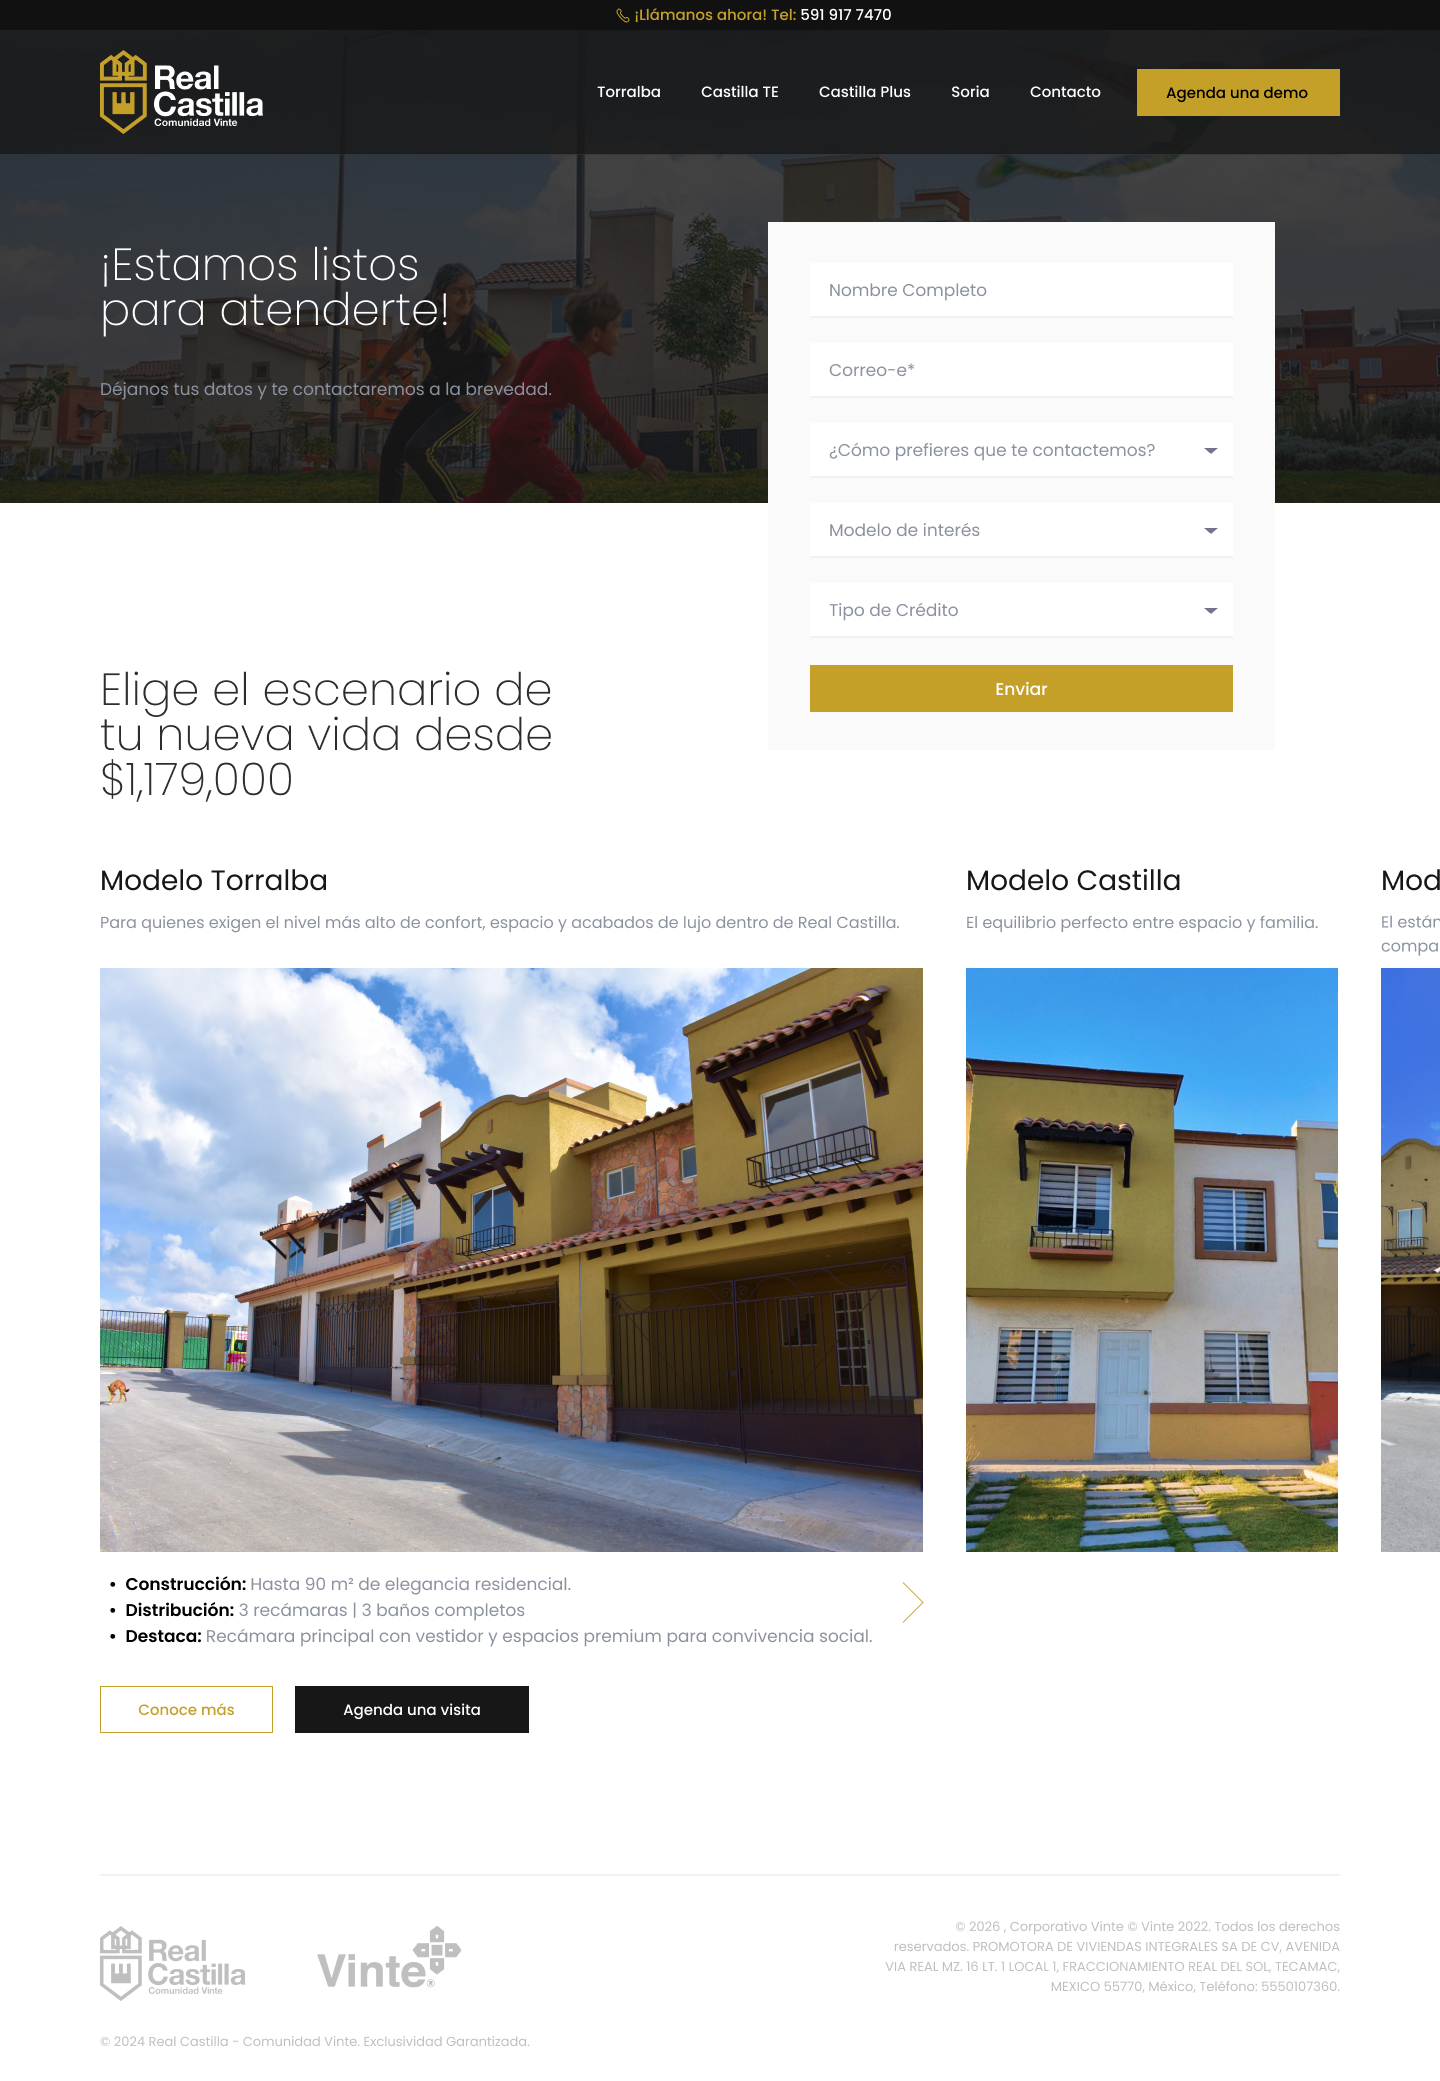
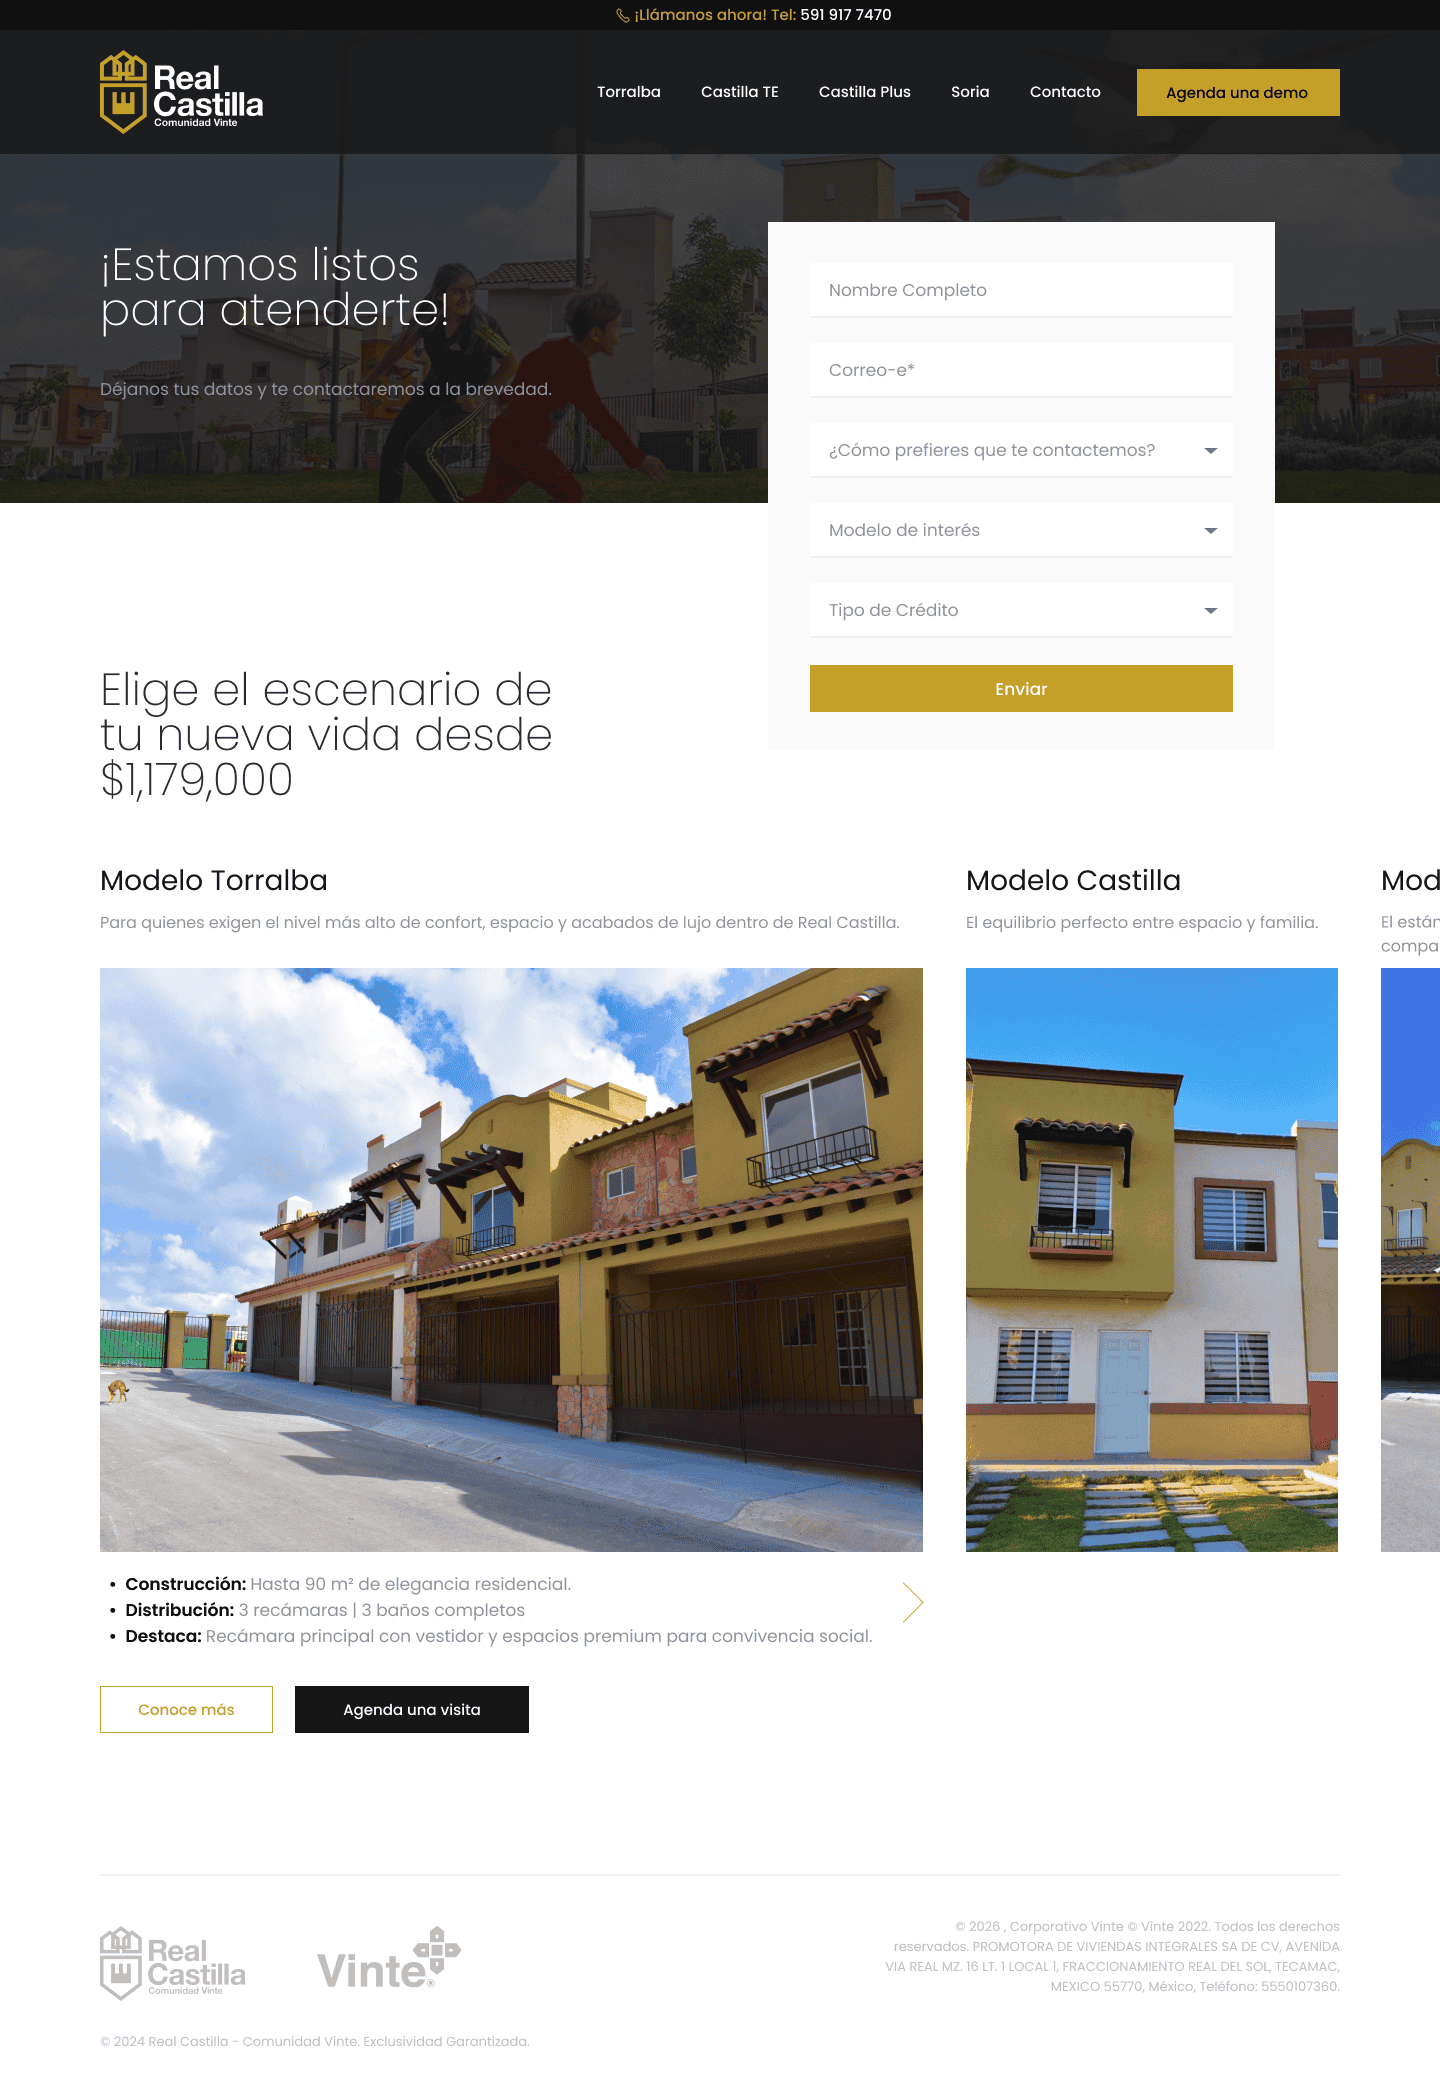
hero de pagina modelos

diff --git a/templates/modelos-casas.html b/templates/modelos-casas.html
@@ -1,0 +1,169 @@
+<!--
+  templateType: page
+  isAvailableForNewContent: true
+  label: Modelos de casas
+  screenshotPath: ../images/template-previews/modelos-casas.png
+-->
+{% extends "./layouts/base.html" %}
+
+{% block body %}
+{% dnd_area "dnd_area"
+  label="Main section",
+  class="body-container hero-container-style-1 modelos-casas-container"
+%}
+  {% dnd_section
+    background_image={
+      "backgroundPosition": "TOP_CENTER",
+      "backgroundSize": "cover",
+      "imageUrl": context.contact_bg or get_asset_url("../images/bgk-modelos-casas.png")
+    },
+    padding={
+      "default": { "top": 180, "right": 20, "bottom": 0, "left": 20 },
+      "mobile":  { "top": 120, "right": 20, "bottom": 60, "left": 20 }
+    },
+    vertical_alignment="MIDDLE", extra_classes="modelos-casas-hero"
+  %}
+
+    {% dnd_column offset=0, width=12 %}
+
+      {% dnd_row
+        padding={
+          "default": { "right": 24, "left": 24 },
+          "mobile":  { "right": 20, "left": 20 }
+        }
+      %}
+
+        {# LEFT #}
+        {% dnd_column offset=0, width=9 %}
+          {% dnd_row %}
+            {% dnd_column offset=0, width=12 %}
+              {% dnd_row %}
+                {% dnd_module
+                  path="@hubspot/header",
+                  header_tag="h1",
+                  value={{ context.contact_title or "Modelo Torralba" }},
+                  extra_classes="txt-white heading-big p-b-30"
+                %}
+                {% end_dnd_module %}
+              {% end_dnd_row %}
+            {% end_dnd_column %}
+          {% end_dnd_row %}
+
+          {% dnd_row %}
+            {% dnd_column offset=0, width=6 %}
+              {% dnd_row %}
+                {% dnd_module
+                  path="@hubspot/header",
+                  header_tag="h3",
+                  value={{ context.contact_title or "TORRALBA" }},
+                  extra_classes=" heading headeing-modelos-casas"
+                %}
+                {% end_dnd_module %}
+              {% end_dnd_row %}
+              
+              {% dnd_row %}
+                {% dnd_module
+                  path="@hubspot/rich_text",
+                  html={{
+                    context.contact_text
+                    or
+                    "<p class='txt-white'>Para quienes exigen el nivel más alto de confort, espacio y acabados de lujo dentro de Real Castilla.</p>"
+                  }}
+                %}
+                {% end_dnd_module %}
+              {% end_dnd_row %}
+            {% end_dnd_column %}
+
+            
+            {% dnd_column offset=6, width=6 %}
+              {% dnd_row %}
+                {% dnd_module
+                  path="@hubspot/linked_image",
+                  img={
+                    "src": get_asset_url("../images/torralba-hero-1.png"),
+                    "alt": "Dog park image",
+                    "loading": "lazy",
+                    "size_type": "auto"
+                  }
+                %}
+                {% end_dnd_module %}
+              {% end_dnd_row %}
+            {% end_dnd_column %}
+
+          {% end_dnd_row %}
+        {% end_dnd_column %}
+        
+
+        {# RIGHT (Form) #}
+        {% dnd_column offset=9, width=3 %}
+
+          {% dnd_row %}
+            {% dnd_module
+              path="@hubspot/linked_image",
+              img={
+                "src": get_asset_url("../images/torralba-hero-2.png"),
+                "alt": "Dog park image",
+                "loading": "lazy",
+                "size_type": "auto"
+              }
+            %}
+            {% end_dnd_module %}
+          {% end_dnd_row %}
+        {% end_dnd_column %}
+
+      {% end_dnd_row %}
+
+    {% end_dnd_column %}
+
+  {% end_dnd_section %}
+
+  {# Modelos slider #}
+  {% dnd_section
+    padding={
+      "default": {
+        "top": 150,
+        "bottom": 50
+      },
+      "mobile": {
+        "top": 80,
+        "right": 20,
+        "bottom": 80,
+        "left": 20
+      }
+    },
+  %}
+    {% dnd_column %}
+      {% dnd_row %}
+        
+        {% dnd_module
+          path="@hubspot/header",
+          header_tag="h2",
+          value={{ context.heading_title or "Elige el escenario de tu nueva vida desde $1,179,000" }},
+          width=5,
+          extra_classes="heading-modelos-slider"
+        %}
+
+        {% end_dnd_module %}
+      {% end_dnd_row %}
+      {% dnd_row %}
+
+          {% dnd_module
+            path="@hubspot/rich_text",
+            html="<p>Nuestras <strong>casas residenciales modernas están diseñadas</strong> para adaptarse a tu estilo y proyecto de vida. Todas nuestras opciones cuentan con acabados de alta calidad y espacios optimizados para tu comodidad.</p>",
+            width=7,
+            class="home-models-text"
+          %}
+
+        {% end_dnd_module %}
+      {% end_dnd_row %}
+      {% dnd_row %}
+
+          {% dnd_module path="../modules/modelos-propiedades-slider" %}
+          {% end_dnd_module %}
+      
+        {% end_dnd_row %}
+    {% end_dnd_column %}
+  {% end_dnd_section %}
+
+{% end_dnd_area %}
+{% endblock body %}

diff --git a/css/main.css b/css/main.css
@@ -864,29 +864,33 @@ a, a:hover{text-decoration: none !important;}
 
 /* Contact hero */
 @media screen and (min-width: 768px) {
-  .body-container--contact .dnd-section:first-child{
+  .hero-container-style-1 .dnd-section:first-child{
     position: relative;
     height: 500px;
     margin-bottom: -60px;
   }
-}
-
-
-/* Estilar el form dentro de la columna derecha */
-.body-container--contact .hs_cos_wrapper_type_form{
+  .modelos-casas-container .dnd-section:first-child{
+    height: 700px;
+  }
 }
 
 
 /* Responsive: apilar */
 @media (max-width: 991px){
-  .body-container--contact .dnd-section{
+  .hero-container-style-1 .dnd-section{
     min-height: auto;
     padding-top: 70px;
     padding-bottom: 70px;
   }
+}
 
-  .body-container--contact .hs_cos_wrapper_type_form{
-    margin-left: 0;
-    max-width: 100%;
-  }
+{###########################################################################}
+{#########################   Modelos de casas   ############################}
+{###########################################################################}
+
+.modelos-casas-container .dnd-section:first-child .widget-span{ 
+  padding: 0 0rem;
+}
+.modelos-casas-container .headeing-modelos-casas h3{
+  margin-bottom: 15px;
 }

diff --git a/templates/contact.html b/templates/contact.html
@@ -9,7 +9,7 @@
 {% block body %}
 {% dnd_area "dnd_area"
   label="Main section",
-  class="body-container body-container--contact"
+  class="body-container hero-container-style-1"
 %}
   {% dnd_section
     background_image={
